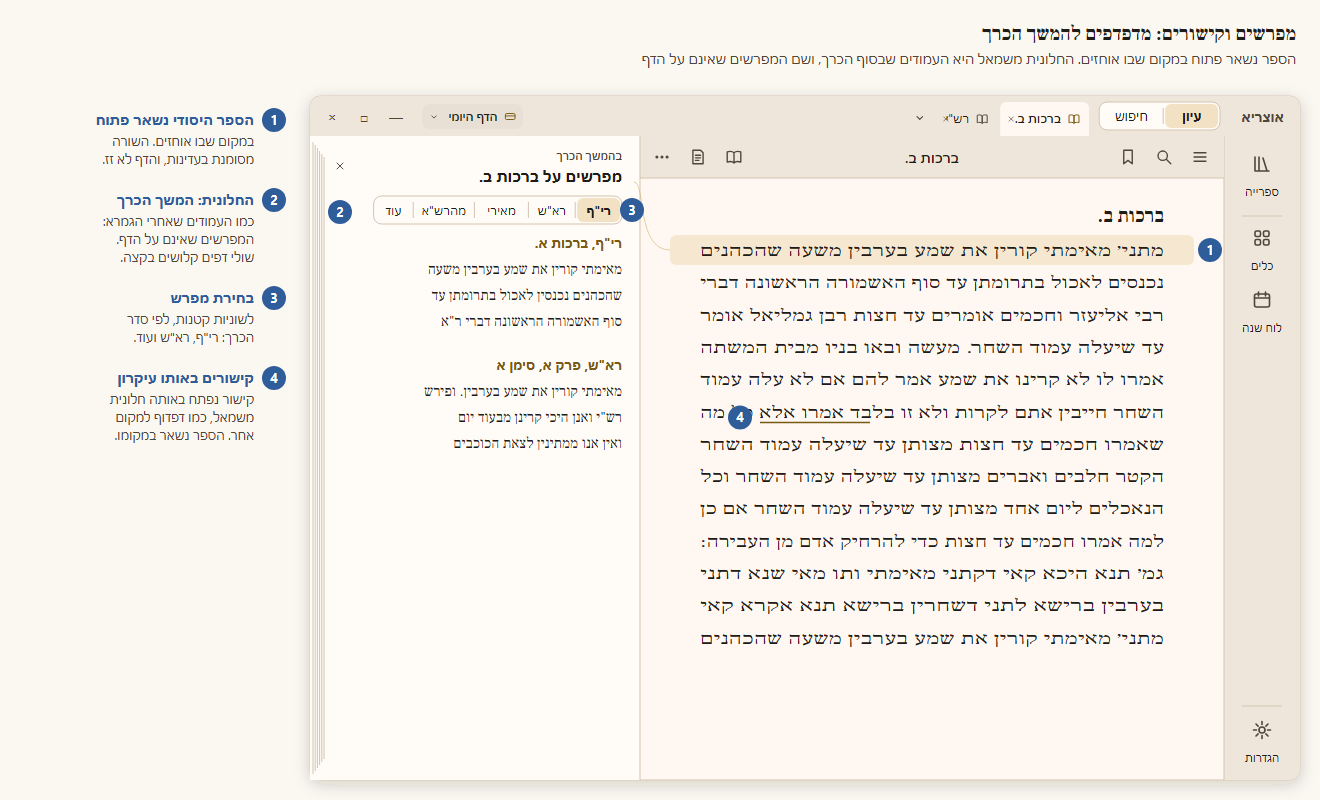
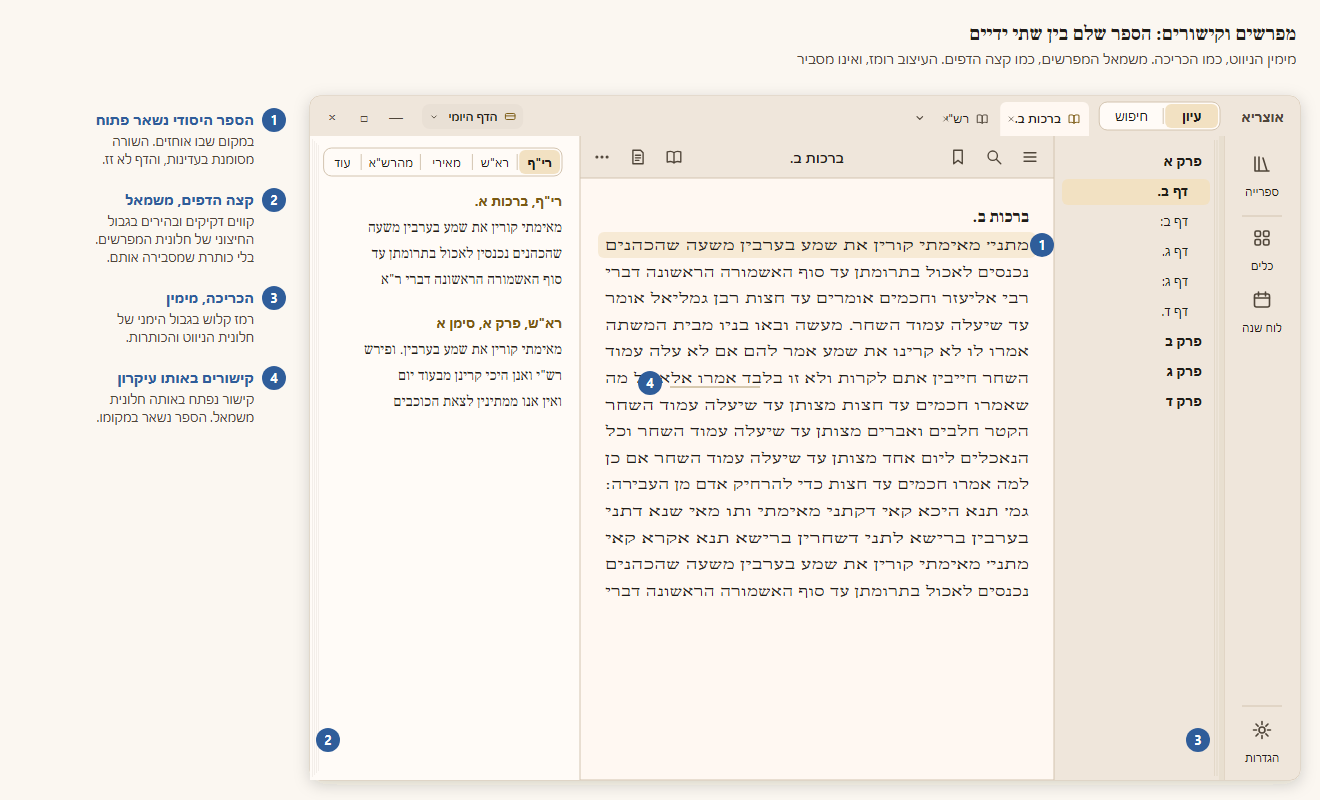
מסמך היסוד: את העיצוב נושמים, לא מכריזים עליו
כלל יסוד חדש: ההגדרות והחיווי החזותי לא מדברים על עצמם. אין כותרות שמסבירות
את המשל. חלונית המפרשים מקבלת בגבול השמאלי קווים דקיקים כקצה הדפים, וחלונית
הניווט רמז קלוש לכריכה בגבול הימני. הכותרות "בהמשך הכרך" ו"ארון הספרים" הוסרו
מההדמיות.

diff --git a/docs/design-system/APP_STRUCTURE.md b/docs/design-system/APP_STRUCTURE.md
@@ -71,6 +71,13 @@
 **כלל 10. כל החיווי החזותי כסימן מים.**
 העיצוב כולו בקו נקי, וקטורי ומעודן, כמו היום ועוד יותר: מסודר, בהיר ובלי עומס. כל רמז חזותי הוא כמעט לא מורגש, והלומד קולט אותו באינטואיציה, כמו סימן מים ברקע. זה כולל את ארונות הספרים, את המדף שמראה מקום שייך לו, את ציר התקופות ואת שולי הדפים. אין ציורים מובלטים שמושכים את העין, אין מילויים כבדים ואין קישוטים. מה שבולט הוא רק הטקסט, השם והפעולה.
 
+**כלל יסוד: את העיצוב נושמים, לא מכריזים עליו.**
+ההגדרות והחיווי החזותי לא מדברים על עצמם, לא מודיעים על עצמם ולא נכתבים כדי שיקראו אותם. אין כותרת שמסבירה את המשל, כמו "בהמשך הכרך". במקומה, צורת הרכיב עצמה רומזת על מהותו, בעדינות:
+- **חלונית המפרשים משמאל:** בגבול השמאלי החיצוני שלה יש קווים אנכיים דקיקים ובהירים מאוד, כמו קצה הדפים של ספר.
+- **חלונית הניווט והכותרות מימין:** בגבול הימני שלה יש רמז קלוש של כריכת הספר.
+
+גם הרמזים האלה כמעט בלתי נראים. הם לא תופסים מקום ולא מרעישים בעין. כך הספר כולו מונח בין שתי ידיים: הכריכה מימין, והדפים משמאל.
+
 **כלל 11. מפרש וקישור הם המשך הכרך.**
 הספר היסודי נשאר פתוח על השולחן במקום שבו אוחזים בו. מפרשים שאינם על הדף, וקישורים, נפתחים בחלונית משמאל. זה כמו לדפדף לעמודים שבסוף הכרך, שם הרי"ף, הרא"ש ושאר המפרשים, בלי לעזוב את הדף.
 
@@ -138,10 +145,10 @@
 
 **מפרשים וקישורים: המשך הכרך** (כלל 11). בגמרא יש עשרות עמודים של הגמרא עצמה, עם רש"י ותוספות על הדף, ואחריהם באים עמודי הרי"ף, הרא"ש ושאר המפרשים. כך גם כאן:
 - הספר היסודי נשאר פתוח במקום שבו אוחזים בו. השורה מסומנת בעדינות, והדף לא זז.
-- המפרשים שאינם על הדף נפתחים בחלונית משמאל, כמו דפדוף להמשך הכרך. בקצה החלונית יש שולי דפים קלושים, כרמז לעמודים שמתחתיה.
+- המפרשים שאינם על הדף נפתחים בחלונית משמאל, כמו דפדוף להמשך הכרך. אין לחלונית כותרת שמסבירה זאת. רק בגבול השמאלי החיצוני שלה יש קווים דקיקים ובהירים מאוד, כקצה הדפים (כלל היסוד).
+- בחלונית הניווט והכותרות מימין יש רמז קלוש לכריכה, בגבול הימני שלה.
 - בראש החלונית יש לשוניות קטנות לבחירת המפרש, לפי סדר הכרך.
 - קישור נפתח באותה חלונית משמאל, כמו דפדוף למקום אחר, והספר נשאר במקומו.
-- חוט דק, כסימן מים, מחבר בין השורה שבספר לבין מה שנפתח בחלונית (כלל 10).
 
 ![מפרשים וקישורים](app-structure/09-commentary-pages.png)
 
